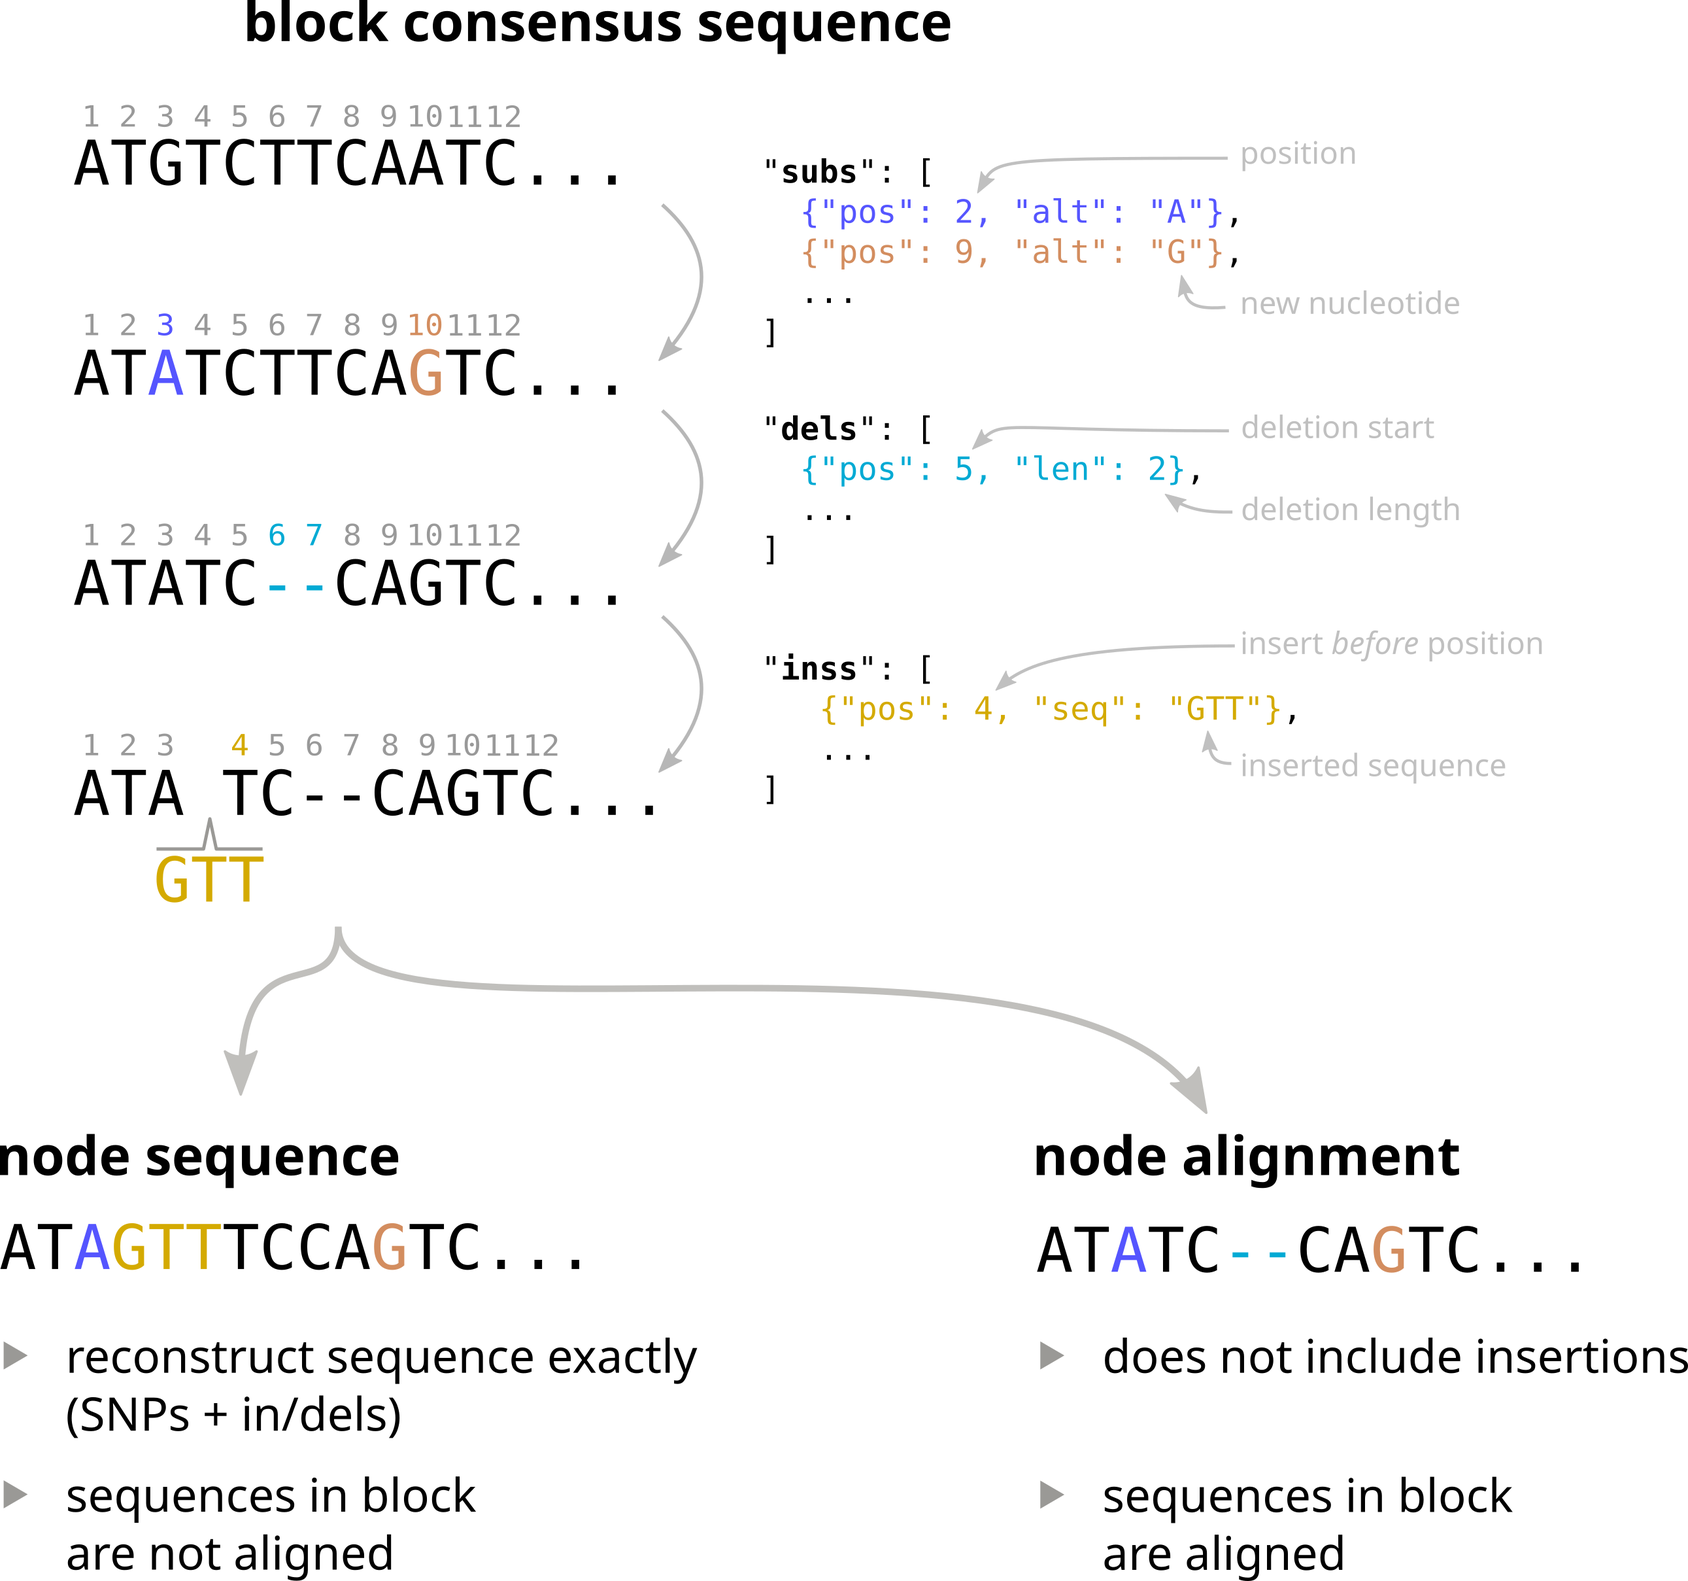
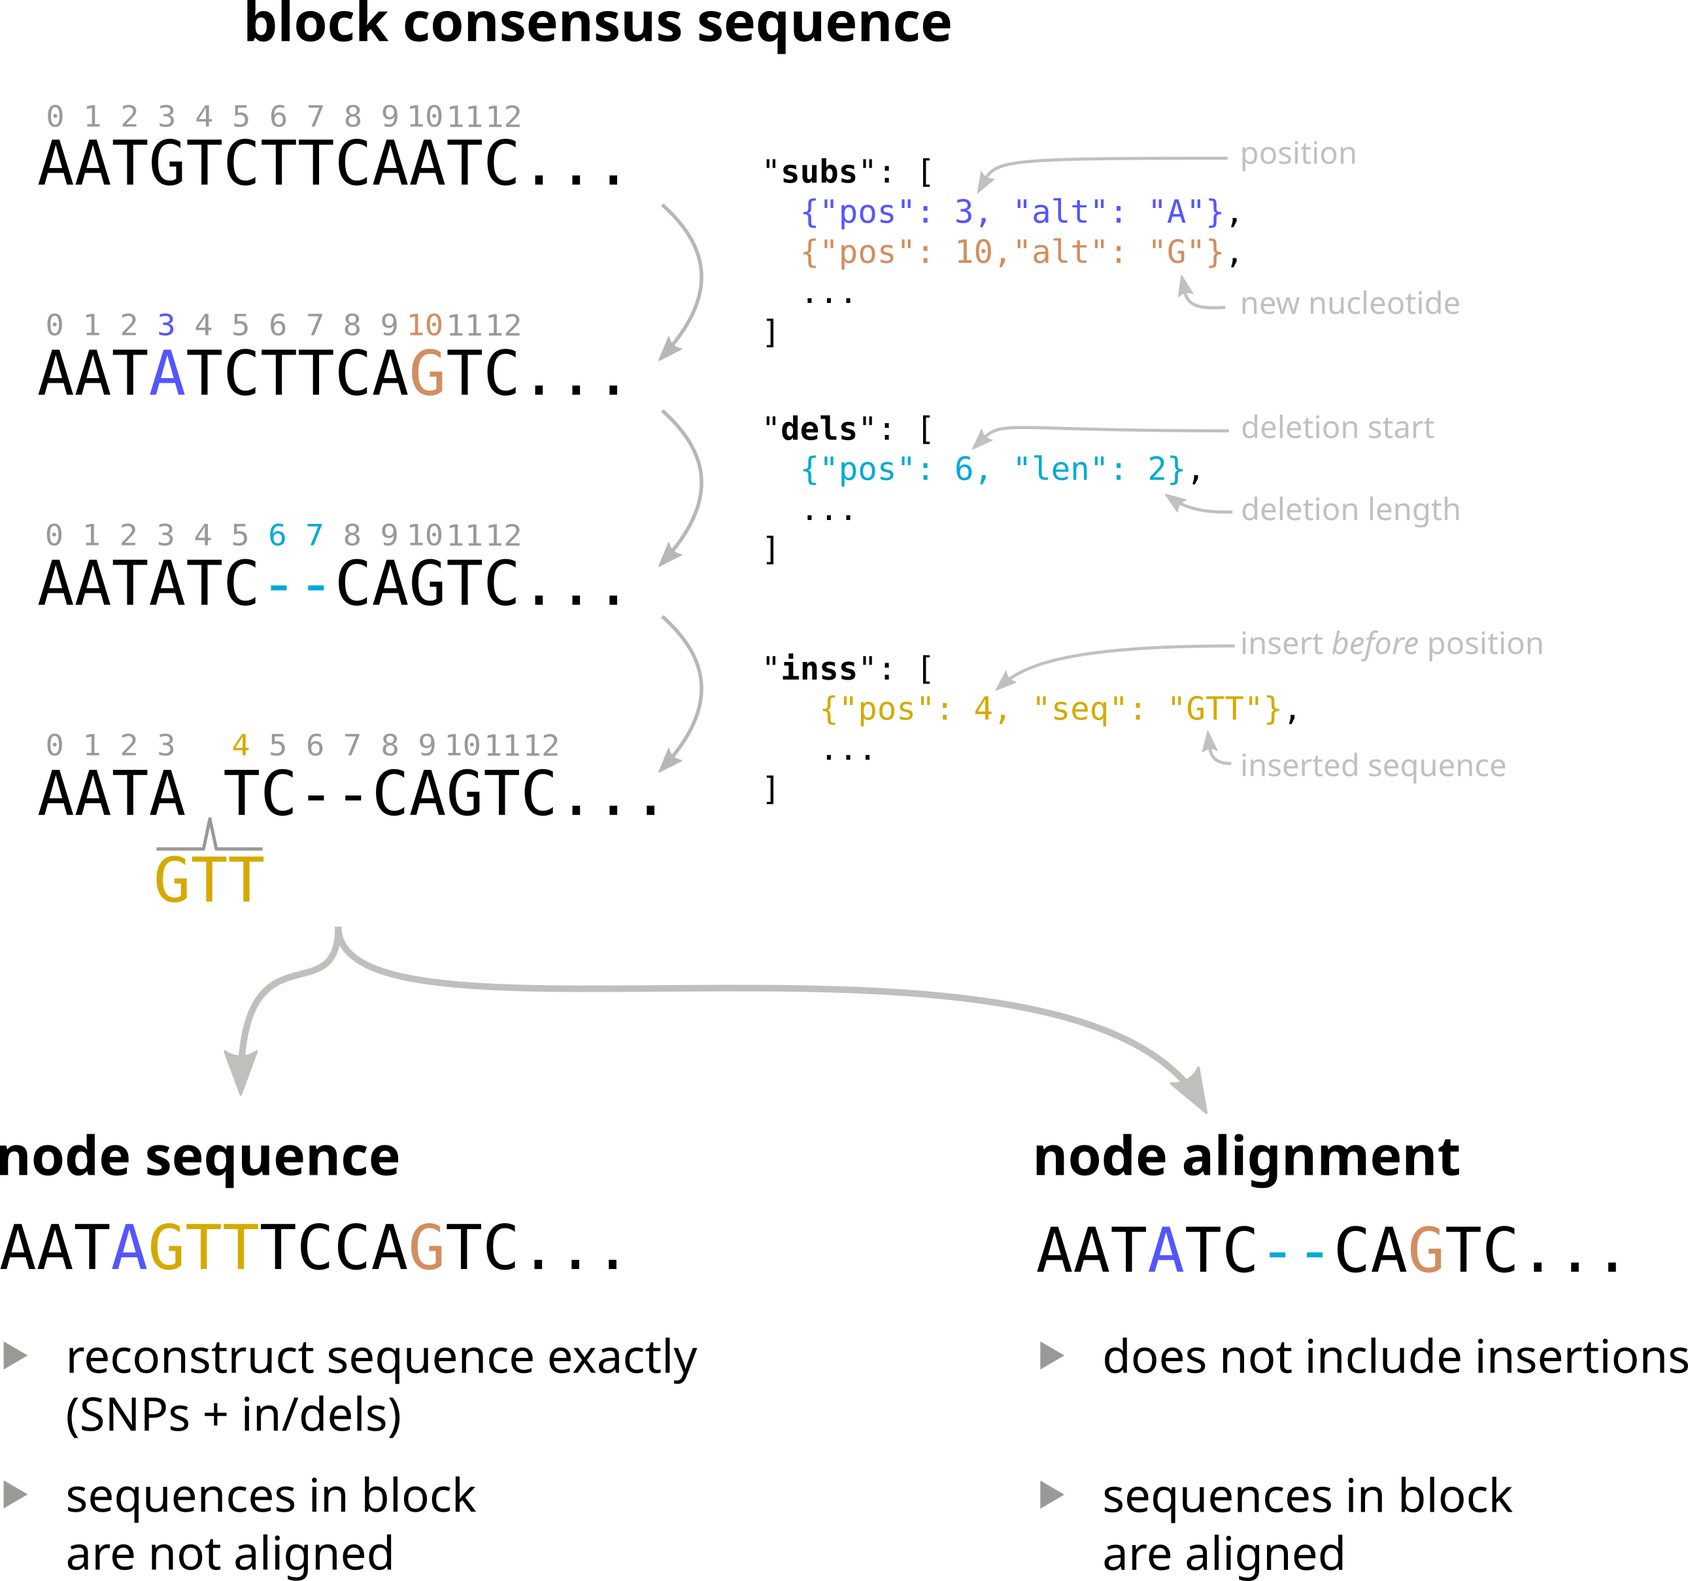
docs: tutorial2 update

diff --git a/docs/docs/tutorial/tutorial_2.md b/docs/docs/tutorial/tutorial_2.md
@@ -4,17 +4,19 @@ sidebar_position: 2
 
 # The structure of Pangraph output file
 
-In this second part of the tutorial we will explore in more detail the content of the `json` output file produced by the `build` command.
+In this second part of the tutorial we will explore in more detail the content of the `json` output file produced by the [`build` command](../reference#pangraph-build).
 As an example, we will use snippets from the `graph.json` file that was produced in the previous section of the tutorial.
+
 
 ## The structure of `graph.json`
 
-As discussed in the previous tutorial section, the two main entries of pangraph output file are `paths` and `blocks`.
+As discussed in the [previous tutorial section](./tutorial_1.md#what-is-a-pangraph), the three main entries of pangraph output file are `paths`, `blocks` and `nodes`.
 
-- each entry in the `paths` list encodes one of the nucleotide sequences that were given as input to the `build` command, represented as a list of blocks.
-- each entry in the `blocks` list represents an alignable set of homologous sequences. A block contains the consensus of all of these sequences, together with information to reconstruct the full alignment.
+- each entry in the `paths` list encodes one of the nucleotide sequences that were given as input to the `build` command, represented as a list of nodes (i.e. particular instances of a block)
+- each entry in the `blocks` list represents an alignable set of homologous sequences. A block contains the consensus of all of these sequences, together with information to reconstruct the full alignment. Each entry in the alignment is represented by a `node`.
+- the `nodes` list represents the connection between blocks and paths. Each node entry contains information on which block and path the node is assigned to.
 
-We will explore each of these two categories separately.
+We will explore each of these categories separately.
 
 
 ## Paths
@@ -24,40 +26,51 @@ A path object has the following structure:
 ```json
 {
     "id": 1,
+    "name": "NZ_CP010150",
     "nodes": [10429785587629589393, 10765941013351965021, 7771937209474314297, ...],
-    "tot_len": 4827779,
     "circular": true,
-    "name": "NZ_CP010150"
+    "tot_len": 4827779
 },
 ```
 
-The two main properties of a path are `name` and `blocks`. The `name` of the path indicates which of the input sequences the path represents. `blocks` contains the ordered list of nodes that make up the path. Each node is identified by the unique block `id`, and by the entries of the node-id (`name`, `number`, `strand`).
+The two main properties of a path are `name` and `nodes`. The `name` of the path corresponds to the sequence identifier in the input fasta file.
+`nodes` contains the ordered list of node ids that make up the path.
 
 Here is a complete list containing a description of every entry in the path object:
 
-- `name` : the name of the particular nucleotide sequence to whom the path refers. This name is extracted from the sequence id in the input fasta file.
-- `circular` : indicates whether the considered sequence is circular (e.g. plasmid) or not. This is controlled by the `--circular` option of the `build` command.
-- `blocks` : the ordered list of blocks that make up the path.
-    - `id` : the unique random id of the block, assigned when building the graph.
-    - `name`, `number` `strand` : entries of the node-id, used to identify which particular instance of the block is part of the path. As a reminder, `name` is the id of the input sequence, `number` indicates which occurrence of the same block is considered (useful for duplicated blocks) and `strand` indicates whether the sequence is found on the forward or reverse strand.
-- `position` : an ordered list of positions, corresponding to the beginning positions of each node in the path. If N is the number of nodes this list has N+1 entries. The last entry is the position of the right edge of the last block in the path.
-- `offset` : indicates the distance between the beginning of the input sequence, and the beginning of the path (i.e. the beginning of the first node of the path, block `IUZTZPLBVS` in the example above).
+- `id`: numerical id of the path. Each path is assigned a unique progressive id when building the graph.
+- `name` : the path sequence identifier, as specified in the input fasta file.
+- `nodes` : the ordered list of node ids that make up the path.
+- `circular` : indicates whether the considered sequence is circular (e.g. plasmid) or not. This is controlled by the `--circular` flag of the `build` command.
+- `tot_len` : the total length of the path, in nucleotides.
+
 
 ## Nodes
 
+Nodes constitue the connection between block and paths. A node indicartes a particular occurrence of a block in a path sequence. A node object has the following structure:
+
 ```json
 {
-    "id": 539582348881474,
-    "block_id": 16869306503019140931,
-    "path_id": 5,
+    "id": 10429785587629589393,
+    "block_id": 9245376340613946,
+    "path_id": 1,
     "strand": "+",
-    "position": [4239867, 4240062]
+    "position": [356656, 359732]
 },
 ```
 
+The properties of a node are:
+- `id` : a unique random numerical id assigned to the node.
+- `block_id` : the id of the block that the node belongs to.
+- `path_id` : the id of the path that the node is part of.
+- `strand` : indicates whether on the original input sequence the consensus sequence of the block appears in the forward (`+`) or reverse (`-`) strand.
+- `position` : start and end position of the node on the input sequence. Positions are always in 0-based numbering with right extreme excluded. They are also based on the forward strand (with beginning < end). The only exception is when a block wraps around the end of a circular sequence. In this case the node start position (close to the end of the genome) is higher than the node end position (close to the beginning of the genome).
+
+
 ## Blocks
 
-Here is an example of an entry of the `blocks` list, from the `ecoli_pangraph.json` file.
+Blocks encode alignments of homologous sequences across the input genomes.
+Each block object has the following structure:
 
 ```json
 {
@@ -79,116 +92,54 @@ Here is an example of an entry of the `blocks` list, from the `ecoli_pangraph.js
 }
 ```
 
-The two main properties of a block are its unique `id` (10-letters alphabetic sequence randomly assigned when generating the pangraph), and the consensus `sequence`.
+Each block contains the following properties:
+- `id` : a unique random numerical id assigned to the block.
+- `consensus` : the consensus sequence of the block.
+- `alignments` : a dictionary that contains information to reconstruct the sequence alignment. Keys are node ids, while values are a list of variations (substitutions, deletions, insertions) that need to be applied to the consensus to obtain the node sequence.
 
-In addition to this, a block object also stores information on the full alignment of all the different occurrences of the block, and their position on the original input sequences. As explained in the [Introduction](@ref), we refer to a particular occurrence of a block in a sequence as a __Node__. Intuitively, they can be thought of as a single entry in the sequence alignment of a block.
 
-Each node of a block can be uniquely identified by its "node-id", which is an object composed of three entries:
-```json
-{ "name": "NZ_CP019944", "number": 1, "strand": true }
-```
-- a `name`, indicating on which of the input sequences the node is found.
-- a `number`, indicating whether this is the first, second, third... occurrence of the block on a given input sequence. This is important to distinguish different nodes of a duplicated blocks, when they occurr in the same input sequence.
-- a `strand` boolean value, indicating wheter the node is found on the forward (`true`) or reverse (`false`) strand.
+### How alignments are encoded
 
-The "node-id" is used for example in the `position` field of a block. This field contains information on the location of nodes on the input sequences. It consists of a list of pairs. The first entry of the pair is the node-id, indicating of which occurrence of the block the position refers to. The second entry is a pair of numbers indicating the position of the beginning and end of the node on the input sequence.
-
-In the example above, the first entry of `positions` indicates that block `"TMEPNAOFAP"` is found on the forward strand of the chromosome labeled `NZ_CP019944`, at position `356656` to `359732`. Positions are always in 1-based numbering and based on the forward strand (with beginning < end). The only exception is when a block wraps around the end of a circular sequence. In this case the node start position (close to the end of the genome) is higher than the node end position (close to the beginning of the genome).
-
-The fields `gaps`, `mutate`, `insert` and `delete` contain information to reconstruct the block alignment. They were left out from this example for simplicity, and are discussed in the next subsection.
-
-## How alignments are encoded
-
-A block object contains the information on the alignment of all the homologous sequences belonging to the block. This information is stored in compressed format in the `gaps`, `mutate`, `insert` and `delete` fields. In practice the alignment of each node sequence can be obtained from the consensus by adding the gaps, single-nucleotide mutations, and insertions / deletions contained in these fields.
-
-Here we briefly describe each entry, and then schematically show how these can be combined to obtain the alignment sequence of a node.
-
-!!! note "reconstructing the alignments"
-    Rather than providing explicit instructions on how to build the alignments, the aim of this part of the tutorial is to show how the information is organized in the pangraph output format. For a quick way to obtain block alignments, have a look at the next tutorial section [Polishing the pangraph and exploring alignments](@ref).
-
-### Gaps
-
-The `gaps` entry contains a json object that indicates where gaps should be added to the consensus sequence as a first step towards reconstructing the alignment. The first item represents the position of the gap, and the second its length.
+Each object in the alignment dictionary contains three entries: `subs`, `dels`, and `inss`, encoding respectively substitutions, deletions, and insertions. Here is an example of an entry in the `alignments` dictionary:
 
 ```json
-"gaps" : {"0": 27, "53": 1 }
+"5252840658835653895" : {
+    "subs": [
+        {
+            "pos": 15,
+            "alt": "A"
+        },
+        {
+            "pos": 35,
+            "alt": "G"
+        }
+    ],
+    "dels": [
+        {
+            "pos": 10,
+            "len": 4
+        }
+    ],
+    "inss": [
+        {
+            "pos": 3,
+            "seq": "CTT"
+        }
+    ]
+}
 ```
 
-In this example the consensus sequence contains two gaps: one is inserted at the beginning of the consensus sequence, with length 27, and one after sequence position 53, with length 1.
-In some of the sequences running through this block, these gaps are filled with insertions, see below.
+- `subs` contains a list of substitutions. Each substituion contains a `pos` field indicating the position of the substitution in the consensus sequence, and an `alt` field indicating the alternative nucleotide.
+- `dels` contains a list of deletions. Each deletion contains a `pos` field indicating the starting position of the deletion in the consensus sequence (0-based), and a `len` field indicating the length of the deletion.
+- `inss` contains a list of insertions. Each insertion contains a `pos` field, indicating the nucleotide _before_ which the insertion should be placed, and a `seq` field, containing the sequence to be inserted.
 
-### Single-nucleotide mutations
-
-The `mutate` entry encodes single-nucleotide mutations. It contains a list of pairs. Each pair is relative to a particular node (i.e. one line in the alignment) and the first item of the pair is the node-id described above. The second entry is a list of mutations (potentially empty). Each mutation is specified by its position on the original sequence, and the nucleotide that should be substituted to the consensus.
-
-```json
-"mutate" : [
-    [
-        { "name": "NC_009800", "number": 1, "strand": false },     // node-id
-        [ [415,"C"], [1526,"T"], [2827,"G"], ... ]                 // list of mutations
-    ],
-    [
-        { "name": "NZ_CP011342", "number": 1, "strand": false },   // node-id
-        [ [2221, "G"], [415, "C"], [2494, "T"], [1825, "A"], ... ] // list of mutations
-    ],
-    [
-        { "name": "NZ_CP019944", "number": 1, "strand": true },    // node-id
-        [ [2827, "G"], [442, "T"], [2713, "G"], ... ]              // list of mutations
-    ],
-    ...
-],
-```
-
-### Insertions and deletions
-
-Entries of `insert` and `delete` are organized similarly to mutations. They appear in lists of pairs, whose first item is the node-id, and the second is the list of insertions/deletions that one needs to include. This list can potentially be empty.
-
-```json
-"insert" : [
-    [
-        { "name": "NC_009800", "number": 1, "strand": false },
-        []
-    ],
-    [
-        { "name": "NZ_CP011342", "number": 1, "strand": false },
-        []
-    ],
-    [
-        { "name": "NZ_CP019944", "number": 1, "strand": true },
-        [ [ [0,0], "TT"], [ [0,15], "TTCCC"] ]
-    ],
-    ...
-],
-```
-
-Insertions are always placed inside of gaps. They appear in the form `[ [gap-beg, gap-offset], "seq"]`. `gap-beg` indicates the beginning position of the gap, and `gap-offset` indicates how far from the beginning of this gap the insertion starts. Finally `seq` is the nucleotide sequence to be inserted.
-
-```json
-"delete" : [
-    [
-        { "name": "NC_009800", "number": 1, "strand": false },
-        [ [ 3071, 56 ] ]
-    ],
-    [
-        { "name": "NZ_CP011342", "number": 1, "strand": false },
-        []
-    ],
-    [
-        { "name": "NZ_CP019944", "number": 1, "strand": true },
-        [ [ 3071, 56 ] ]
-    ],
-    ...
-],
-```
-
-Deletions are instead in the form `[del-beg, del-length]` where the first number indicates the position at which the deletion starts (relative to the consensus sequence) and the second is the deletion length.
-
-### From block consensus to node alignment
-
-Below is a schematic summary of how gaps, mutations, insertions and deletions can be combined to go from the block consensus sequence to the alignment sequence of a particular node.
+Below is a schematic representation of how these variations are applied to the consensus sequence of a block to obtain the sequence of a node.
 
 ![img](./../assets/t2_alignment_reconstruction.png)
 
+As discussed in the [next section](./tutorial_3.md), the different sequences of a block can be reconstructed in two ways:
+- as **node sequences**. In this case sequences are not aligned, but each entry corresponds to the exact sequence of a node, with all variations applied.
+- as a **multiple sequence alignment**. In this case sequences are aligned, but insertions are omitted. 
 
 
 ## A look at the length and frequency of blocks
@@ -201,7 +152,7 @@ As a simple example, we take the `ecoli_pangraph.json` file and extract from eac
 
 The blocks present in this pangraph have widely varying size, with some blocks being only some hundreds of nucleotides long, and others spanning tens of kbps.[^1]
 
-[^1]: The almost complete absence of blocks shorter than 100 bps is due to the default value of the `--len` option in the `build` command, which is set to 100. See [Build](@ref).
+[^1]: The almost complete absence of blocks shorter than 100 bps is due to the default value of the `--len` option in the `build` command, which is set to 100. See [`build` command](../reference#pangraph-build) for more information.
 
 The block frequency distribution shows a typical bimodal pattern, with an abundance of "core" blocks (blocks that are present in all the 10 considered chromosomes, cumulative length of more than 3.5 Mbps) and rare blocks present in only one strain (cumulative length of more than 2.5 Mbps).
 This graph can be reproduced by this python snippet:

diff --git a/docs/docs/glossary.md b/docs/docs/glossary.md
@@ -19,7 +19,7 @@ A collection of _blocks_, associated to all recognized intervals of homology, an
 #### Block / Pancontig
 
 A contiguous interval of sequence that compresses a linear multiple sequence alignment and represents a single vertex within a pangraph.
-It is summarized by a consensus sequence, along with the polymorphisms needed for each genome to reconstruct the true sequence.
+It is summarized by a consensus sequence, along with the mutations needed for each genome to reconstruct the true sequence.
 
 ![img](./assets/t1_blocks.png)
 

diff --git a/docs/docs/tutorial/tutorial_4.md b/docs/docs/tutorial/tutorial_4.md
@@ -9,6 +9,12 @@ In this final part of the tutorial we show how to use the `marginalize` command.
 
 ## Preliminary steps
 
+:::warning
+
+TODO: add projection scheme from the paper
+
+:::
+
 We will run this tutorial on a different dataset, containing 10 complete chromosomes of _Klebsiella Pneumoniae_ (source: GenBank). These sequences are available in the pangraph repository (`example_dataset/klebs.fa.gz`) and can be downloaded by running:
 
 ```bash

diff --git a/docs/docs/tutorial/tutorial_3.md b/docs/docs/tutorial/tutorial_3.md
@@ -2,4 +2,16 @@
 sidebar_position: 3
 ---
 
-# Exporting alignments
+# Exporting sequences
+
+## Exporting block consensus sequences
+
+## Exporting block alignments
+
+:::warning
+
+TODO: talk about potential polishing
+
+:::
+
+## Exporting the core-genome alignment and building a tree

diff --git a/docs/docs/installation/optional-dependencies.md b/docs/docs/installation/optional-dependencies.md
@@ -22,3 +22,9 @@ To install _mmseqs2_ using conda, run the following command:
 ```bash
 conda install -c conda-forge -c bioconda mmseqs2
 ```
+
+:::note
+
+Pangraph was tested with _mmseqs2_ version 17.b804f.
+
+:::

diff --git a/docs/docs/tutorial/tutorial_7.md b/docs/docs/tutorial/tutorial_7.md
@@ -1,0 +1,11 @@
+---
+sidebar_position: 7
+---
+
+# Example application: core genome synteny
+
+:::warning
+
+TODO: add colored GFA?
+
+:::
